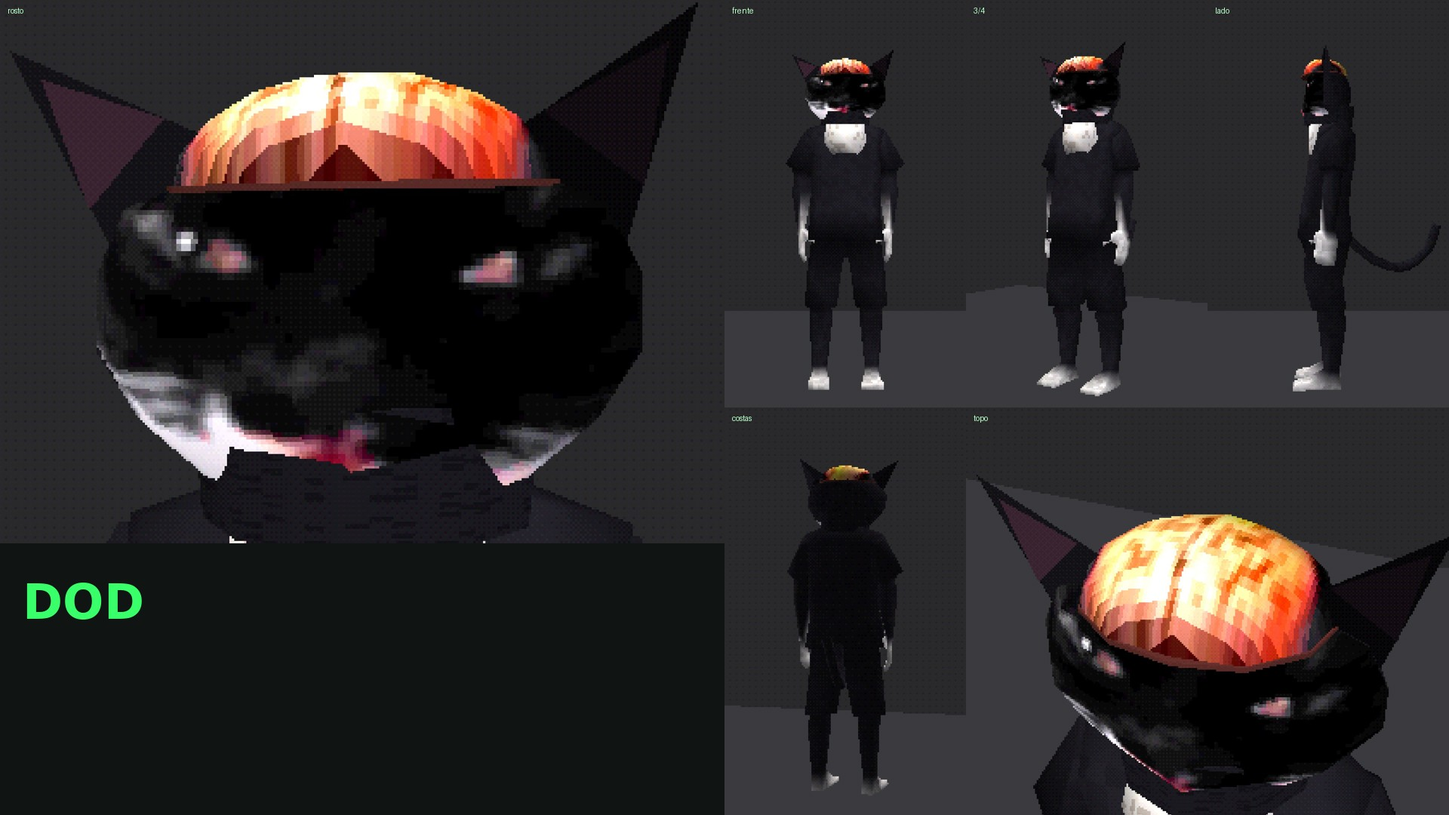
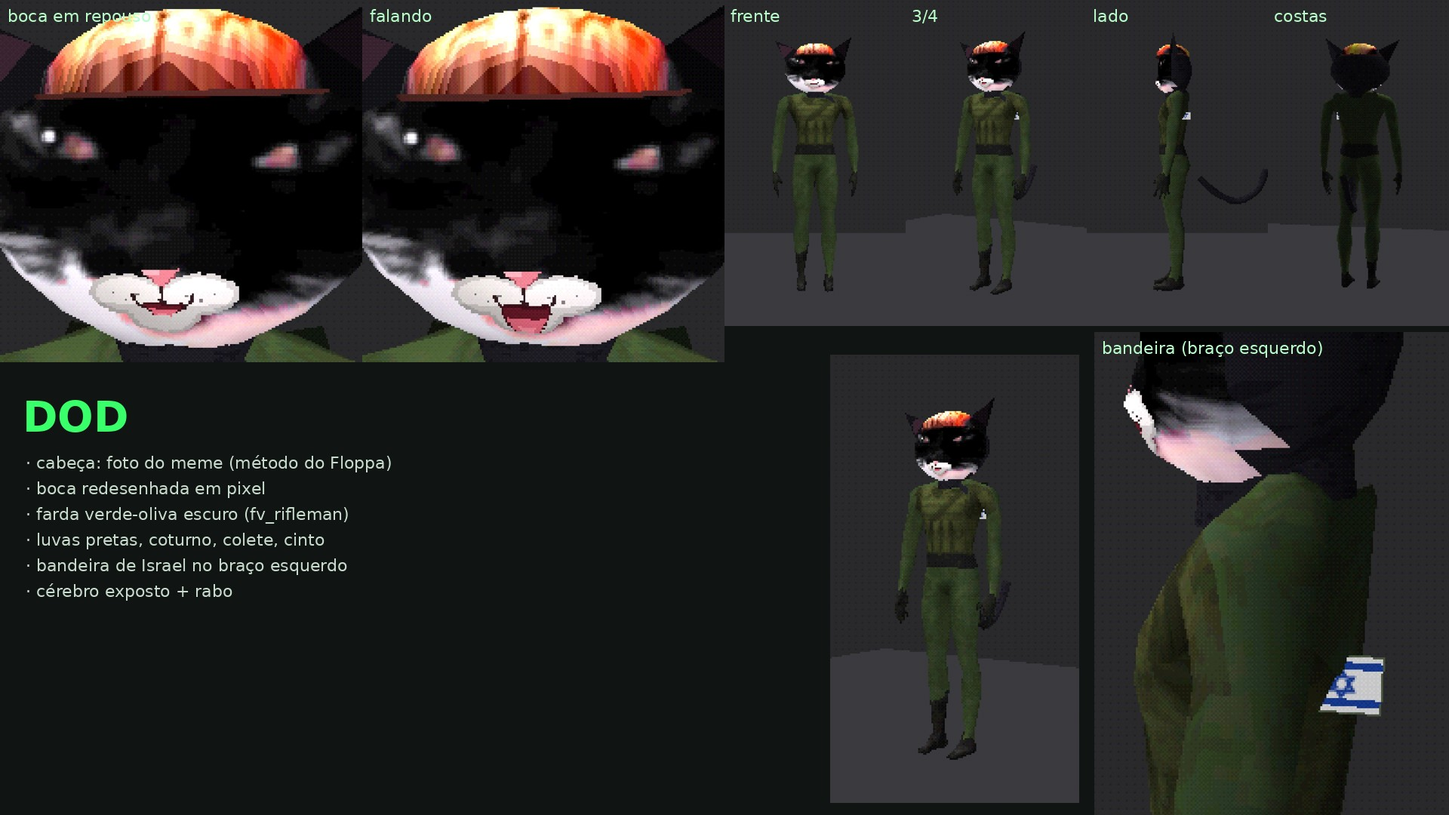
Dod: boca redesenhada em pixel e farda militar verde-oliva (fv_rifleman), luvas, bandeira de Israel no braço esquerdo
Claude-Session: https://claude.ai/code/session_01PVUNKmUDvaP2jpRAvnz1fM

diff --git a/lib/tgp.js b/lib/tgp.js
@@ -265,9 +265,11 @@ export async function igor(o = {}) {
 // ───────────────────────── DOD ─────────────────────────
 // Gato preto do meme (material/dod/dod.jpg) feito DO MESMO JEITO do Igor (Floppa): a foto projetada de frente numa cabeça
 // low-poly, pixelada, em corpo de gente. O topo do crânio é o CÉREBRO exposto (cúpula com a textura do cérebro da foto).
-// Corpo como ele é: pelo preto, peito e patas brancas, rabo. Medidas em px da foto (720×720): centro da cabeça (365, 400).
-const FOTO_DOD = { cx: 365, cy: 400, rec: [110, 130, 600, 470], tw: 150, th: 118, cer: [383, 265, 112, 45] };   // cer: centro x, y, meia-largura, meia-altura do cérebro
-export async function dod(o = {}) {
+// A BOCA da foto é um borrão: ela é redesenhada em pixel (focinho branco, nariz rosa, "ω" dos lábios, boca entreaberta com a língua).
+// Corpo padrão: SOLDADO (fv_rifleman, PSX Characters Sampler) com a farda repintada de verde-oliva escuro, luvas pretas e a
+// bandeira de Israel pequena no braço ESQUERDO. ?corpo=gato: o corpo de pelo (o primeiro). Medidas em px da foto (720×720).
+const FOTO_DOD = { cx: 365, cy: 400, rec: [110, 130, 600, 470], tw: 240, th: 188, cer: [383, 265, 112, 45], boca: [356, 498] };   // cer: centro x, y, meia-largura, meia-altura do cérebro
+export async function cabecaDod(o = {}) {
   const foto = await M.imagem('material/dod/dod.jpg'), F = FOTO_DOD, [rx, ry, rw, rh] = F.rec;
   const cv = document.createElement('canvas'); cv.width = F.tw; cv.height = F.th;
   const cx = cv.getContext('2d', { willReadFrequently: true });
@@ -286,16 +288,41 @@ export async function dod(o = {}) {
     }                                                                            // quentes ficam: olhos âmbar, nariz, língua, cérebro
     for (let k = 0; k < 3; k++) q[i + k] = Math.round(Math.round(P.clamp(c[k]) * 31) / 31 * 255);                                   // cor de 15 bits
   }
+  // BOCA redesenhada em pixel (referência: gato de boca aberta). Tudo em px da foto; cada texel é testado pelo centro.
+  const S = cv.width / rw, [mx, my] = F.boca, LIN = .62 / S, B = 1.3;      // B: a boca desenhada é 30% maior que a da foto (aparece de longe)
+  const pintar = (x0, y0, x1, y1, f, img = base) => {
+    const u0 = Math.floor((x0 - rx) * S), u1 = Math.ceil((x1 - rx) * S), v0 = Math.floor((y0 - ry) * S), v1 = Math.ceil((y1 - ry) * S);
+    for (let v = v0; v <= v1; v++) for (let u = u0; u <= u1; u++) {
+      const X = rx + (u + .5) / S, Y = ry + (v + .5) / S, c = f(X, Y); if (!c) continue;
+      const j = (v * cv.width + u) * 4; img.data[j] = c[0]; img.data[j + 1] = c[1]; img.data[j + 2] = c[2];
+    } };
+  const el = (X, Y, ex, ey, ax, ay) => ((X - ex) / ax) ** 2 + ((Y - ey) / ay) ** 2;
+  // focinho branco: as duas almofadas dos bigodes + o queixo
+  pintar(mx - 60 * B, my - 22 * B, mx + 60 * B, my + 40 * B, (X, Y) => {
+    const d = Math.min(el(X, Y, mx - 24 * B, my + 4 * B, 30 * B, 19 * B), el(X, Y, mx + 24 * B, my + 4 * B, 30 * B, 19 * B), el(X, Y, mx, my + 22 * B, 26 * B, 16 * B));
+    if (d > 1) return null; const sombra = Y > my + 14 * B ? .86 : 1, v = (d > .7 ? 196 : 228) * sombra; return [v, v * .97, v * .95];
+  });
+  for (const s of [-1, 1]) for (let k = 0; k < 3; k++) {                      // pontinhos dos bigodes
+    const bx = mx + s * (18 + k * 9) * B, by = my + (2 + (k % 2) * 6) * B; pintar(bx - 2, by - 2, bx + 2, by + 2, (X, Y) => el(X, Y, bx, by, 1.6, 1.6) < 1 ? [120, 112, 112] : null);
+  }
+  // nariz rosa (triângulo com a ponta pra baixo) + brilho
+  pintar(mx - 16 * B, my - 22 * B, mx + 16 * B, my - 4 * B, (X, Y) => { const t = (Y - (my - 20 * B)) / (15 * B); if (t < 0 || t > 1) return null; const meia = (13 * (1 - t) + 1.5) * B; if (Math.abs(X - mx) > meia) return null; return t < .25 && X < mx ? [236, 160, 168] : Math.abs(X - mx) > meia - LIN ? [150, 70, 82] : [212, 118, 130]; });
+  // risco do nariz até a boca + o "ω" dos lábios
+  pintar(mx - 30 * B, my - 6 * B, mx + 30 * B, my + 14 * B, (X, Y) => {
+    if (Math.abs(X - mx) < LIN * .8 && Y > my - 6 * B && Y < my + 4 * B) return [46, 24, 28];
+    for (const s of [-1, 1]) { const d = Math.hypot(X - (mx + s * 11 * B), Y - (my + 3 * B)); if (Y > my + 2 * B && Math.abs(d - 11 * B) < LIN) return [46, 24, 28]; }
+    return null;
+  });
   cx.putImageData(base, 0, 0);
+  const comBoca = cx.getImageData(0, 0, cv.width, cv.height);
   const tex = new THREE.CanvasTexture(cv); tex.magFilter = tex.minFilter = THREE.NearestFilter; tex.generateMipmaps = false; tex.colorSpace = THREE.NoColorSpace;
   const px = (x, y) => [(x - rx) / rw * cv.width, (y - ry) / rh * cv.height];
   const uvDe = (x, y) => [(F.cx + x - rx) / rw, 1 - (F.cy - y - ry) / rh];
   const uvCer = (x, z) => [(F.cer[0] + x - rx) / rw, 1 - (F.cer[1] + z * (F.cer[3] / 100) - ry) / rh];      // cérebro visto de cima: frente (z+) = parte de baixo da elipse da foto
 
-  const PRETO = '#1c1a20', BRANCO = '#e4e0da';
+  const PRETO = '#1c1a20';
   const matFoto = P.mat({ mapa: tex, lados: THREE.DoubleSide });
   const matPelo = P.mat({ cor: PRETO, mapa: P.textura(16, 16, (x, w, h, r) => { x.fillStyle = '#ffffff'; x.fillRect(0, 0, w, h); for (let i = 0; i < 60; i++) { x.fillStyle = r() < .5 ? '#bdb6c4' : '#ffffff'; x.fillRect(Math.floor(r() * w), Math.floor(r() * h), 1, 2); } }), rep: [3, 3] });
-  const matBranco = P.mat({ cor: BRANCO, mapa: P.textura(16, 16, (x, w, h, r) => { x.fillStyle = '#ffffff'; x.fillRect(0, 0, w, h); for (let i = 0; i < 50; i++) { x.fillStyle = r() < .5 ? '#d6d0c8' : '#fffaf2'; x.fillRect(Math.floor(r() * w), Math.floor(r() * h), 1, 2); } }), rep: [2, 2] });
   const matOrelha = P.mat({ cor: '#141217', lados: THREE.DoubleSide }), matDentro = P.mat({ cor: '#3a2430', lados: THREE.DoubleSide });
 
   const cab = new THREE.Group();
@@ -316,7 +343,7 @@ export async function dod(o = {}) {
     for (let k = 0; k < 3; k++) { ord[gi].push(p.getX(t + k), p.getY(t + k), p.getZ(t + k)); nor[gi].push(nn.getX(t + k), nn.getY(t + k) * .4 + .25, nn.getZ(t + k)); }
   }
   const todos = [...ord[0], ...ord[1]], uvs = [];
-  for (let i = 0; i < todos.length; i += 3) uvs.push(...uvDe(todos[i] * .95, todos[i + 1] * (todos[i + 1] < 0 ? 1.12 : .95))   /* embaixo pega mais da foto: o queixo branco */);
+  for (let i = 0; i < todos.length; i += 3) uvs.push(...uvDe(todos[i] * .95, todos[i + 1] * (todos[i + 1] < 0 ? 1.12 : .95)));   /* embaixo pega mais da foto: o queixo branco */
   const geo = new THREE.BufferGeometry(); geo.setAttribute('position', new THREE.Float32BufferAttribute(todos, 3)); geo.setAttribute('uv', new THREE.Float32BufferAttribute(uvs, 2));
   geo.setAttribute('normal', new THREE.Float32BufferAttribute([...nor[0], ...nor[1]], 3)); geo.addGroup(0, ord[0].length / 3, 0); geo.addGroup(ord[0].length / 3, ord[1].length / 3, 1);
   cab.add(new THREE.Mesh(geo, [matFoto, matPelo]));
@@ -348,39 +375,137 @@ export async function dod(o = {}) {
     cab.add(og); orelhas.push(og);
   }
   const k = (o.largura ?? .46) / 430; cab.scale.setScalar(k);
+  const animar = (t, { boca = 0, pisca = 0 } = {}) => {
+    const img = new ImageData(new Uint8ClampedArray(comBoca.data), cv.width, cv.height); abrirImg(img, P.clamp(boca)); cx.putImageData(img, 0, 0);
+    if (pisca > .5) for (const [ex, ey] of [[255, 345], [480, 362]]) { const [u, v] = px(ex - 30, ey - 14); cx.fillStyle = '#1a181e'; cx.fillRect(Math.round(u), Math.round(v), Math.round(60 * S), Math.round(26 * S)); }
+    tex.needsUpdate = true;
+    orelhas[0].rotation.z = Math.sin(t * 1.5) * .03 + (Math.sin(t * .8 + 1) > .94 ? .14 : 0);
+    orelhas[1].rotation.z = -Math.sin(t * 1.2 + 2) * .03 - (Math.sin(t * .6 + 4) > .95 ? .14 : 0);
+    cab.rotation.set(Math.sin(t * .7) * .02 + boca * .03, Math.sin(t * .45) * .05, Math.sin(t * .55 + 1) * .015);
+  };
+  const abrirImg = (img, a) => {                                                // a boca: 0 = entreaberta (como no meme), 1 = bem aberta (falando); pinta na imagem do quadro
+    const h = (10 + 16 * a) * B, topo = my + 10 * B, w0 = (17 + 4 * a) * B;
+    pintar(mx - w0 - 2, topo - 2, mx + w0 + 2, topo + h + 2, (X, Y) => {
+      const t = (Y - topo) / h; if (t < 0 || t > 1) return null; const meia = w0 * Math.sqrt(Math.max(0, 1 - (2 * t - 1) ** 2 * .35)) * (1 - .45 * t);
+      if (Math.abs(X - mx) > meia) return null;
+      if (Math.abs(X - mx) > meia - LIN * .9 || t < .12) return [58, 14, 22];    // contorno escuro (lábio)
+      return t > .48 ? (t > .8 && Math.abs(X - mx) < meia * .5 ? [236, 132, 146] : [214, 98, 116]) : [92, 22, 34];
+    }, img);
+  };
+  animar(0);
+  return { cab, orelhas, cerebro, tex, animar, matPelo };
+}
 
-  // CORPO: o mesmo corpo do Igor, pintado como o gato: pelo preto, patas (mãos e pés) brancas
-  const pelagem = P.textura(64, 64, (x, w, h, r) => { for (let j = 0; j < h; j++) for (let i = 0; i < w; i++) { const v = 196 + Math.round((r() - .5) * 40); x.fillStyle = `rgb(${v},${v},${v})`; x.fillRect(i, j, 1, 1); } }, { seed: 21 });
-  pelagem.flipY = false;
-  const c = await corpo({ roupa: PRETO, mao: BRANCO, perna: PRETO, pe: BRANCO }, { relevo: pelagem });   // sem camiseta/bermuda: só pelo
-  const g = c.obj; g.scale.x *= 1.1; g.scale.z *= 1.06;
-  const pesc = new THREE.Group(); pesc.scale.set(1 / g.scale.x, 1 / g.scale.y, 1 / g.scale.z); g.add(pesc); pesc.add(cab);
-  pesc.add(P.cilindro(.15, .14, .11, matPelo, { seg: 9, pos: [0, .04, .012] }));                                         // pescoço largo de pelo
-  const peito = P.esfera(1, matBranco, { seg: 8, segV: 6, esc: [.12, .16, .045] }); pesc.add(peito);                       // peito branco (o "babador" do gato)
-  const rabo = P.tubo([[0, 0, 0], [0, -.12, -.12], [0, -.2, -.3], [.04, -.12, -.46], [.08, .04, -.52]], .028, matPelo, { seg: 14, lados: 5 });
-  const raboG = new THREE.Group(); raboG.add(rabo); g.add(raboG); raboG.scale.copy(pesc.scale);
+// bandeira de Israel (patch de farda): fundo branco, duas faixas azuis, estrela de Davi no meio, borda de costura
+export function patchIsrael(w = .075, h = .054) {
+  const tx = P.textura(44, 32, (x, W, H) => {
+    x.fillStyle = '#5a6248'; x.fillRect(0, 0, W, H); x.fillStyle = '#ecebe6'; x.fillRect(1, 1, W - 2, H - 2);   // costura verde + fundo branco
+    x.fillStyle = '#1b3f9c'; x.fillRect(1, 4, W - 2, 4); x.fillRect(1, H - 8, W - 2, 4);                         // faixas azuis
+    const c = [W / 2, H / 2], r = 7.2, pts = k => [0, 1, 2].map(i => { const a = -Math.PI / 2 + k * Math.PI / 3 + i * 2 * Math.PI / 3; return [c[0] + r * Math.cos(a), c[1] + r * Math.sin(a)]; });
+    x.strokeStyle = '#1b3f9c'; x.lineWidth = 1.6;
+    for (const k of [0, 1]) { const p = pts(k); x.beginPath(); x.moveTo(...p[0]); x.lineTo(...p[1]); x.lineTo(...p[2]); x.closePath(); x.stroke(); }   // dois triângulos = estrela de Davi
+  });
+  return new THREE.Mesh(new THREE.PlaneGeometry(w, h), P.mat({ mapa: tx, lados: THREE.DoubleSide }));
+}
 
-  const D = { obj: g, corpo: c, cabeca: cab, cerebro, orelhas, pescoco: pesc, rabo: raboG, tex,
+// farda do fv_rifleman repintada: camuflado → verde-oliva escuro liso (só as dobras e o colete ficam), mãos → luvas pretas,
+// gola → peito branco do gato, coturno preto. Atlas 256 (mesmo layout CSAF do sy_boss: cabeça em x>163, 36<y<212).
+async function fardaDod(malhas) {
+  const img = await M.imagem('material/modelos/itch/gente/csaf/fv_rifleman.png'), T = 256;
+  const cv = document.createElement('canvas'); cv.width = cv.height = T; const cx = cv.getContext('2d', { willReadFrequently: true });
+  cx.drawImage(img, 0, 0); cx.filter = 'blur(1.4px)'; cx.drawImage(img, 0, 0); cx.filter = 'none'; cx.globalAlpha = .45; cx.drawImage(img, 0, 0); cx.globalAlpha = 1;   // amacia a estampa camuflada
+  const d = cx.getImageData(0, 0, T, T), q = d.data, OL = [0x3a, 0x48, 0x2a], OL2 = [0x33, 0x36, 0x1e], LUVA = [0x1e, 0x1f, 0x1c], BOTA = [0x1a, 0x19, 0x18], BRANCO = [0xe0, 0xdc, 0xd6], R = P.rng(7);
+  const orig = cx.getImageData(0, 0, T, T).data;
+  // máscara das MÃOS: os triângulos cujo osso dominante é mão/dedo, desenhados no espaço UV (o atlas junta antebraço e mão)
+  const mk = document.createElement('canvas'); mk.width = mk.height = T; const mx2 = mk.getContext('2d', { willReadFrequently: true }); mx2.fillStyle = '#fff';
+  for (const ml of malhas) {
+    const g = ml.geometry, uv = g.attributes.uv, si = g.attributes.skinIndex, sw = g.attributes.skinWeight, ix = g.index; if (!uv || !si || !ml.skeleton) continue;
+    const dom = v => { let b = 0, w = -1; for (let k = 0; k < 4; k++) { const wk = sw.getComponent(v, k); if (wk > w) { w = wk; b = si.getComponent(v, k); } } return ml.skeleton.bones[b].name.replace(/^DEF-/, ''); };
+    // o osso da mão desse modelo pesa até no antebraço: a luva é decidida pela POSIÇÃO na pose de bind (T): além do pulso = mão
+    const sk = ml.skeleton, pulso = Math.min(...sk.bones.map((o, i) => /hand\.?[LR]$/i.test(o.name.replace(/^DEF-/, '')) ? Math.abs(new THREE.Matrix4().copy(sk.boneInverses[i]).invert().elements[12]) : Infinity));
+    const pos = g.attributes.position, n = ix ? ix.count : uv.count;
+    for (let t = 0; t < n; t += 3) {
+      const vs = [0, 1, 2].map(k => ix ? ix.getX(t + k) : t + k);
+      const cab = vs.filter(v => dom(v) === 'head').length >= 2;                 // cabeça humana: pinta de vermelho na máscara (canal R)
+      if (!cab && Math.abs(vs.reduce((a, v) => a + pos.getX(v), 0) / 3) < pulso * .985) continue;
+      mx2.fillStyle = mx2.strokeStyle = cab ? '#f00' : '#0f0';
+      mx2.beginPath(); vs.forEach((v, k) => { const X = uv.getX(v) * T, Y = uv.getY(v) * T; k ? mx2.lineTo(X, Y) : mx2.moveTo(X, Y); }); mx2.closePath(); mx2.fill(); mx2.lineWidth = 1.5; mx2.stroke();
+    }
+  }
+  const masc = mx2.getImageData(0, 0, T, T).data, braco0 = (x, y) => (y >= 203 && x >= 97) || (x < 40 && y > 90 && y < 116);
+  for (let i = 0; i < q.length; i += 4) {
+    const x = i / 4 % T, y = Math.floor(i / 4 / T), r = q[i] / 255, g = q[i + 1] / 255, b = q[i + 2] / 255, lum = .3 * r + .59 * g + .11 * b;
+    const ro = orig[i] / 255, go = orig[i + 1] / 255, bo = orig[i + 2] / 255, pele = ro > go * 1.12 && go > bo && ro > .3;
+    const cabeca = masc[i] > 128, gola = x > 78 && x < 112 && y < 40, colete = x > 60 && x < 150 && y > 40 && y < 111, cinto = y >= 111 && y <= 121 && x > 20 && x < 180 && !braco0(x, y), mao = masc[i + 1] > 128, braco = (y >= 203 && x >= 97) || (x < 40 && y > 90 && y < 116);
+    let c;
+    if (cabeca) c = [26, 24, 30];                                                                          // cabeça humana (encolhida, nem aparece)
+    else if (gola && pele) c = BRANCO.map(v => v * (.92 + R() * .08));                                    // decote: o peito branco do gato
+    else if (y >= 203 && x < 98) c = BOTA.map(v => v * P.clamp(lum / .16, .7, 1.6));                       // coturno
+    else if (cinto) c = [0x22, 0x22, 0x1e].map(v => v * P.clamp(lum / .3, .7, 1.5));                         // cinto
+    else if (mao) c = LUVA.map(v => v * P.clamp(lum / .45, .7, 1.4) * (.95 + R() * .1));                   // mãos → luvas pretas
+    else if (braco) c = OL.map(v => v * (.86 + .22 * P.clamp((lum - .25) / .35, 0, 1)) * (.97 + R() * .06));   // antebraço → manga verde (manga abaixada)
+    else { const lo = .3 * orig[i] / 255 + .59 * orig[i + 1] / 255 + .11 * orig[i + 2] / 255, k = colete ? P.clamp(.35 + lo / .3 * .85, .4, 1.6) : .84 + .32 * P.clamp((lum - .16) / .3, 0, 1); c = (colete ? OL2 : OL).map(v => v * k * (.97 + R() * .06)); }   // farda verde-oliva escuro: a camuflagem some, as dobras e o colete ficam
+    for (let k = 0; k < 3; k++) q[i + k] = Math.round(P.clamp(c[k], 0, 255) / 255 * 31) / 31 * 255;
+  }
+  cx.putImageData(d, 0, 0);
+  const tex = new THREE.CanvasTexture(cv); tex.flipY = false; tex.magFilter = tex.minFilter = THREE.NearestFilter; tex.generateMipmaps = false; tex.colorSpace = THREE.NoColorSpace;
+  return tex;
+}
+
+export async function dod(o = {}) {
+  const C = await cabecaDod(o), { cab } = C;
+  if (o.corpo === 'gato') {                                                     // o primeiro corpo: gato "como ele é" (pelo preto, peito e patas brancas)
+    const PRETO = '#1c1a20', BRANCO = '#e4e0da';
+    const matBranco = P.mat({ cor: BRANCO, mapa: P.textura(16, 16, (x, w, h, r) => { x.fillStyle = '#ffffff'; x.fillRect(0, 0, w, h); for (let i = 0; i < 50; i++) { x.fillStyle = r() < .5 ? '#d6d0c8' : '#fffaf2'; x.fillRect(Math.floor(r() * w), Math.floor(r() * h), 1, 2); } }), rep: [2, 2] });
+    const pelagem = P.textura(64, 64, (x, w, h, r) => { for (let j = 0; j < h; j++) for (let i = 0; i < w; i++) { const v = 196 + Math.round((r() - .5) * 40); x.fillStyle = `rgb(${v},${v},${v})`; x.fillRect(i, j, 1, 1); } }, { seed: 21 });
+    pelagem.flipY = false;
+    const c = await corpo({ roupa: PRETO, mao: BRANCO, perna: PRETO, pe: BRANCO }, { relevo: pelagem });
+    const g = c.obj; g.scale.x *= 1.1; g.scale.z *= 1.06;
+    const pesc = new THREE.Group(); pesc.scale.set(1 / g.scale.x, 1 / g.scale.y, 1 / g.scale.z); g.add(pesc); pesc.add(cab);
+    pesc.add(P.cilindro(.15, .14, .11, C.matPelo, { seg: 9, pos: [0, .04, .012] }));
+    const peito = P.esfera(1, matBranco, { seg: 8, segV: 6, esc: [.12, .16, .045] }); pesc.add(peito);
+    const rabo = P.tubo([[0, 0, 0], [0, -.12, -.12], [0, -.2, -.3], [.04, -.12, -.46], [.08, .04, -.52]], .028, C.matPelo, { seg: 14, lados: 5 });
+    const raboG = new THREE.Group(); raboG.add(rabo); g.add(raboG); raboG.scale.copy(pesc.scale);
+    const D = { obj: g, corpo: c, cabeca: cab, cerebro: C.cerebro, orelhas: C.orelhas, pescoco: pesc, rabo: raboG, tex: C.tex,
+      assentar() {
+        g.updateMatrixWorld(true);
+        const w = new THREE.Vector3(); c.osso('spine.004').getWorldPosition(w); g.worldToLocal(w);
+        pesc.position.copy(w); cab.position.set(0, .16, .05); peito.position.set(0, -.1, .085);
+        const q2 = new THREE.Vector3(); c.osso('spine').getWorldPosition(q2); g.worldToLocal(q2); raboG.position.set(q2.x, q2.y - .02, q2.z - .1);
+      },
+      animar(t, f = {}) { C.animar(t, f); rabo.rotation.y = Math.sin(t * 1.1) * .35; rabo.rotation.x = Math.sin(t * .7) * .08; } };
+    D.assentar();
+    return D;
+  }
+  // SOLDADO: o corpo do fv_rifleman com a farda verde-oliva; a cabeça humana encolhe pra dentro do pescoço e a do Dod vai no osso da cabeça
+  const c = poses(await M.carregar('material/modelos/itch/gente/csaf/fv_rifleman.glb', { esc: o.esc ?? .95, texMax: 256 }));
+  const tex = await fardaDod(c.malhas);
+  c.mats().forEach(m => { m.uniforms.uMapa.value = tex; m.uniforms.uTemMapa.value = 1; });
+  c.osso('head').scale.setScalar(.02); c.guardar();
+  const raiz = new THREE.Group(); raiz.add(c.obj);
+  const pesc = new THREE.Group(); pesc.add(cab);
+  pesc.add(P.cilindro(.075, .085, .12, C.matPelo, { seg: 9, pos: [0, -.02, 0] }));                                   // pescoço de pelo
+  const rabo = P.tubo([[0, 0, 0], [0, -.12, -.12], [0, -.2, -.3], [.04, -.12, -.46], [.08, .04, -.52]], .026, C.matPelo, { seg: 14, lados: 5 });
+  const raboG = new THREE.Group(); raboG.add(rabo);
+  const bandeira = patchIsrael();
+  let preso = false;
+  const D = { obj: raiz, corpo: c, cabeca: cab, cerebro: C.cerebro, orelhas: C.orelhas, pescoco: pesc, rabo: raboG, bandeira, tex: C.tex, farda: tex,
+    // prende cabeça, rabo e bandeira nos ossos (chame UMA vez, depois de posar; a partir daí eles seguem o corpo)
     assentar() {
-      g.updateMatrixWorld(true);
-      const w = new THREE.Vector3(); c.osso('spine.004').getWorldPosition(w); g.worldToLocal(w);
-      pesc.position.copy(w); cab.position.set(0, .16, .05); peito.position.set(0, -.1, .085);
-      const q2 = new THREE.Vector3(); c.osso('spine').getWorldPosition(q2); g.worldToLocal(q2); raboG.position.set(q2.x, q2.y - .02, q2.z - .1);
+      if (preso) return; preso = true;
+      raiz.updateMatrixWorld(true);
+      const W = n => c.osso(n).getWorldPosition(new THREE.Vector3()), rot = raiz.rotation.y, fr = new THREE.Vector3(Math.sin(rot), 0, Math.cos(rot)), esq = new THREE.Vector3(Math.cos(rot), 0, -Math.sin(rot));
+      const ph = W('head'); pesc.position.copy(ph).add(new THREE.Vector3(0, .015, 0)).addScaledVector(fr, .005); pesc.rotation.y = rot; cab.position.set(0, .13, .035);
+      raiz.add(pesc); c.osso('neck').attach(pesc);
+      const pq = W('hips'); raboG.position.copy(pq).addScaledVector(fr, -.12).add(new THREE.Vector3(0, -.04, 0)); raboG.rotation.y = rot; raiz.add(raboG); c.osso('hips').attach(raboG);
+      // bandeira: no lado de FORA do braço ESQUERDO, um pouco abaixo do ombro (raio contra a malha pra achar a superfície)
+      const a = W('upper_arm.L'), b = W('forearm.L'), dir = b.clone().sub(a).normalize(), p0 = a.clone().lerp(b, .3);
+      const ray = new THREE.Raycaster(p0.clone().addScaledVector(esq, .4), esq.clone().negate(), 0, .6);
+      const hit = ray.intersectObjects(c.malhas, false)[0], sup = hit ? hit.point : p0.clone().addScaledVector(esq, .06);
+      bandeira.position.copy(sup).addScaledVector(esq, .006); bandeira.up.copy(dir.clone().negate()); bandeira.lookAt(sup.clone().addScaledVector(esq, 1));
+      raiz.add(bandeira); c.osso('upper_arm.L').attach(bandeira);
     },
-    // boca (0–1, volume da voz), piscada (0–1), tempo (orelhas, cabeça e rabo mexem de leve)
-    animar(t, { boca = 0, pisca = 0 } = {}) {
-      cx.putImageData(base, 0, 0);
-      const E = cv.width / rw;
-      if (pisca > .5) for (const [ex, ey] of [[255, 345], [480, 362]]) { const [u, v] = px(ex - 30, ey - 14); cx.fillStyle = '#1a181e'; cx.fillRect(Math.round(u), Math.round(v), Math.round(60 * E), Math.round(26 * E)); }
-      const ab = Math.round(P.clamp(boca) * 4);
-      if (ab > 0) { const [u, v] = px(365, 522); cx.fillStyle = '#180a0c'; cx.fillRect(Math.round(u - 20 * E), Math.round(v), Math.round(40 * E), ab); }
-      tex.needsUpdate = true;
-      orelhas[0].rotation.z = Math.sin(t * 1.5) * .03 + (Math.sin(t * .8 + 1) > .94 ? .14 : 0);
-      orelhas[1].rotation.z = -Math.sin(t * 1.2 + 2) * .03 - (Math.sin(t * .6 + 4) > .95 ? .14 : 0);
-      cab.rotation.set(Math.sin(t * .7) * .02 + boca * .03, Math.sin(t * .45) * .05, Math.sin(t * .55 + 1) * .015);
-      rabo.rotation.y = Math.sin(t * 1.1) * .35; rabo.rotation.x = Math.sin(t * .7) * .08;
-    } };
-  D.assentar();
+    animar(t, f = {}) { C.animar(t, f); rabo.rotation.y = Math.sin(t * 1.1) * .35; rabo.rotation.x = Math.sin(t * .7) * .08; } };
   return D;
 }
 

diff --git a/videos/95-dod/index.html b/videos/95-dod/index.html
@@ -1,6 +1,6 @@
 <!doctype html><html lang="pt-BR"><head><meta charset="utf-8">
 <!-- Folha de personagem: DOD (gato preto do meme com o cérebro exposto; feito do mesmo jeito do Igor/Floppa; não entra no filme).
-     ?v=frente|tres|lado|costas|rosto · &fundo=#hex · &t=segundos -->
+     ?v=frente|tres|lado|costas|rosto|topo|bandeira · &corpo=gato (o 1º corpo) · &boca=0..1 · &fundo=#hex · &t=segundos -->
 <script>VIDEO={w:1920,h:1080,fps:30,dur:4}</script>
 <script src="../../lib/boot.js"></script></head><body><div id="stage"></div>
 <script type="module">
@@ -12,12 +12,12 @@ window.SETUP = async () => {
   const S = P.palco({ fov: 30, cam: [0, 1, 5], alvo: [0, 1, 0], fundo: q.get('fundo') || '#29292b',
     luz: { keyDir: [-.35, .8, .55], keyCor: '#f2f2ee', fillDir: [.8, .1, .3], fillCor: '#8a8a90', amb: '#55555a' } });
   S.scene.add(P.caixa(6, .02, 6, P.mat({ cor: '#333336' }), { pos: [0, -.01, 0] }));
-  const D = await T.dod(); S.scene.add(D.obj); const c = D.corpo;
-  c.braco('R', [-.15, -1, .05], [-.05, -1, .1]); c.braco('L', [.15, -1, .05], [.05, -1, .1]); c.guardar(); D.assentar();
+  const D = await T.dod({ corpo: q.get('corpo') || 'soldado' }); S.scene.add(D.obj); const c = D.corpo;
+  c.braco('R', [-.15, -1, .05], [-.05, -1, .1]); c.braco('L', [.15, -1, .05], [.05, -1, .1]); c.guardar(); D.assentar(); S.scene.updateMatrixWorld(true);
   const b = new THREE.Box3().setFromObject(D.obj), h = b.max.y, cab = D.cabeca.getWorldPosition(new THREE.Vector3());
   const V = { frente: [0, h * .55, 4.6, 0, h * .5, 0, 30], tres: [2.6, h * .62, 3.7, 0, h * .5, 0, 30], lado: [4.6, h * .55, 0, 0, h * .5, 0, 30],
-    costas: [-1.2, h * .6, -4.4, 0, h * .5, 0, 30], topo: [cab.x + .3, cab.y + .7, cab.z + .8, cab.x, cab.y + .05, cab.z, 30], rosto: [cab.x + .15, cab.y + .08, cab.z + 1.15, cab.x, cab.y + .02, cab.z, 26] }[q.get('v') || 'frente'];
-  S.update = t => { c.repor(); D.assentar(); D.animar(t, { pisca: (t % 3.2) > 3.05 ? 1 : 0 });
+    costas: [-1.2, h * .6, -4.4, 0, h * .5, 0, 30], topo: [cab.x + .3, cab.y + .7, cab.z + .8, cab.x, cab.y + .05, cab.z, 30], bandeira: [1.4, h * .8, -.1, .2, h * .74, 0, 22], rosto: [cab.x + .15, cab.y + .08, cab.z + 1.15, cab.x, cab.y + .02, cab.z, 26] }[q.get('v') || 'frente'];
+  S.update = t => { c.repor(); D.assentar(); D.animar(t, { pisca: (t % 3.2) > 3.05 ? 1 : 0, boca: +(q.get('boca') || 0) });
     S.camera.fov = V[6]; S.camera.position.set(V[0], V[1], V[2]); S.camera.lookAt(V[3], V[4], V[5]); S.camera.updateProjectionMatrix(); };
   window.D = D;
 };

diff --git a/material/producao/personagens/dod/LEIA.md b/material/producao/personagens/dod/LEIA.md
@@ -1,8 +1,14 @@
-# DOD — o gato preto do meme (cérebro exposto)
+# DOD — o gato preto do meme (cérebro exposto), de farda militar
 
-- Feito **do mesmo jeito do Igor (Floppa)**: a foto (`material/dod/dod.jpg`, recorte do meme) projetada de frente numa cabeça low-poly, pixelada (cor de 15 bits), em corpo de gente.
-- Código: `T.dod()` em `lib/tgp.js` · folha: `videos/95-dod` (`?v=frente|tres|lado|costas|rosto|topo`) · `inspecao/folha_dod.jpg`.
-- Cabeça: larga e achatada (cara CHAPADA, sem "bolha"), focinho pra frente, topo cortado reto → **cúpula do cérebro** com a textura do cérebro da foto vista de cima + borda do crânio aberto.
-  O roxo do fundo do meme é tirado da textura (o fundo vira pelo preto e os reflexos roxos viram cinza); ficam só os tons quentes (olhos âmbar, nariz, língua, cérebro).
-- Orelhas grandes pretas abertas pra fora (miolo rosado escuro), mexem de leve. Boca abre com a voz (`animar(t, {boca, pisca})`), pisca, rabo balança.
-- Corpo "como ele é": pelo preto (sem camiseta/bermuda pintadas), **peito branco**, **patas brancas** (mãos e pés), **rabo**.
+- Código: `T.dod()` em `lib/tgp.js` (cabeça: `T.cabecaDod()`; bandeira: `T.patchIsrael()`) · folha: `videos/95-dod`
+  (`?v=frente|tres|lado|costas|rosto|topo|bandeira`, `&boca=0..1`, `&corpo=gato` = o primeiro corpo, de pelo) · `inspecao/folha_dod.jpg`.
+- **Cabeça (método do Igor/Floppa):** a foto `material/dod/dod.jpg` projetada de frente numa cabeça low-poly, pixelada (15 bits). Cara chapada (nada de bolha),
+  topo cortado reto + **cúpula do cérebro** com a textura do cérebro da foto. O roxo do fundo do meme sai da textura (fica preto e branco; só olhos, nariz, língua e cérebro têm cor).
+- **Boca redesenhada em pixel** (a da foto é um borrão; referência: gato de boca aberta): almofadas brancas dos bigodes com pontinhos, nariz rosa em triângulo,
+  risco + "ω" dos lábios, boca entreaberta com a língua; `animar(t, {boca})` abre mais com a voz. Tudo em px da foto (`FOTO_DOD.boca`), escala `B = 1.3`.
+- **Corpo: soldado** `fv_rifleman` (PSX Characters Sampler, CSAF — uso livre, sem redistribuir; o arquivo NÃO vai pro git). Textura repintada (`fardaDod`):
+  camuflado → **verde-oliva escuro** liso (dobras ficam), colete com bolsos e alça, cinto preto, coturno preto, **luvas pretas**.
+  As mãos são achadas pela POSIÇÃO na pose de bind (além do pulso), não pelo osso (o osso da mão desse modelo pesa até no antebraço);
+  a cabeça humana pelo osso `head` (ela encolhe pra dentro do pescoço). O decote mostra o peito branco do gato.
+- **Bandeira de Israel** pequena (patch com costura verde) no lado de fora do **braço ESQUERDO**, logo abaixo do ombro: raio contra a malha acha a superfície e o patch é preso ao osso `upper_arm.L`.
+- Rabo preso no quadril, balança. `assentar()` prende cabeça, rabo e bandeira nos ossos uma vez (depois de posar); daí eles seguem as animações.

diff --git a/material/CREDITOS.md b/material/CREDITOS.md
@@ -3,7 +3,7 @@
 Enviados pelo dono do projeto: Lab, PSX Pack, PSX OLD PC 95, Simple Character PSX (JashiPSX), ps1Model, Low Poly Interior Junk, DoriHome, AloneInTheDusk.
 
 Baixados do itch.io (gratuitos; `bash tools/baixar-itch.sh` baixa de novo):
-- **PSX Characters Sampler** — Core Systems Asset Factory (csaf.itch.io): uso livre em projetos, sem redistribuir os arquivos. Usado: `sy_boss` (Phantom).
+- **PSX Characters Sampler** — Core Systems Asset Factory (csaf.itch.io): uso livre em projetos, sem redistribuir os arquivos. Usado: `sy_boss` (Phantom), `fv_rifleman` (corpo do Dod, farda repintada).
 - **PSX Style Cars** — GGBot (ggbot.itch.io): CC0.
 - **PSX Vehicles Free / PSX Street Props Free / PSX People Free** — heyheythere: CC BY 4.0 (creditar).
 - **PSX Cars Free Sample** — chuckyassets: uso comercial e não comercial.
